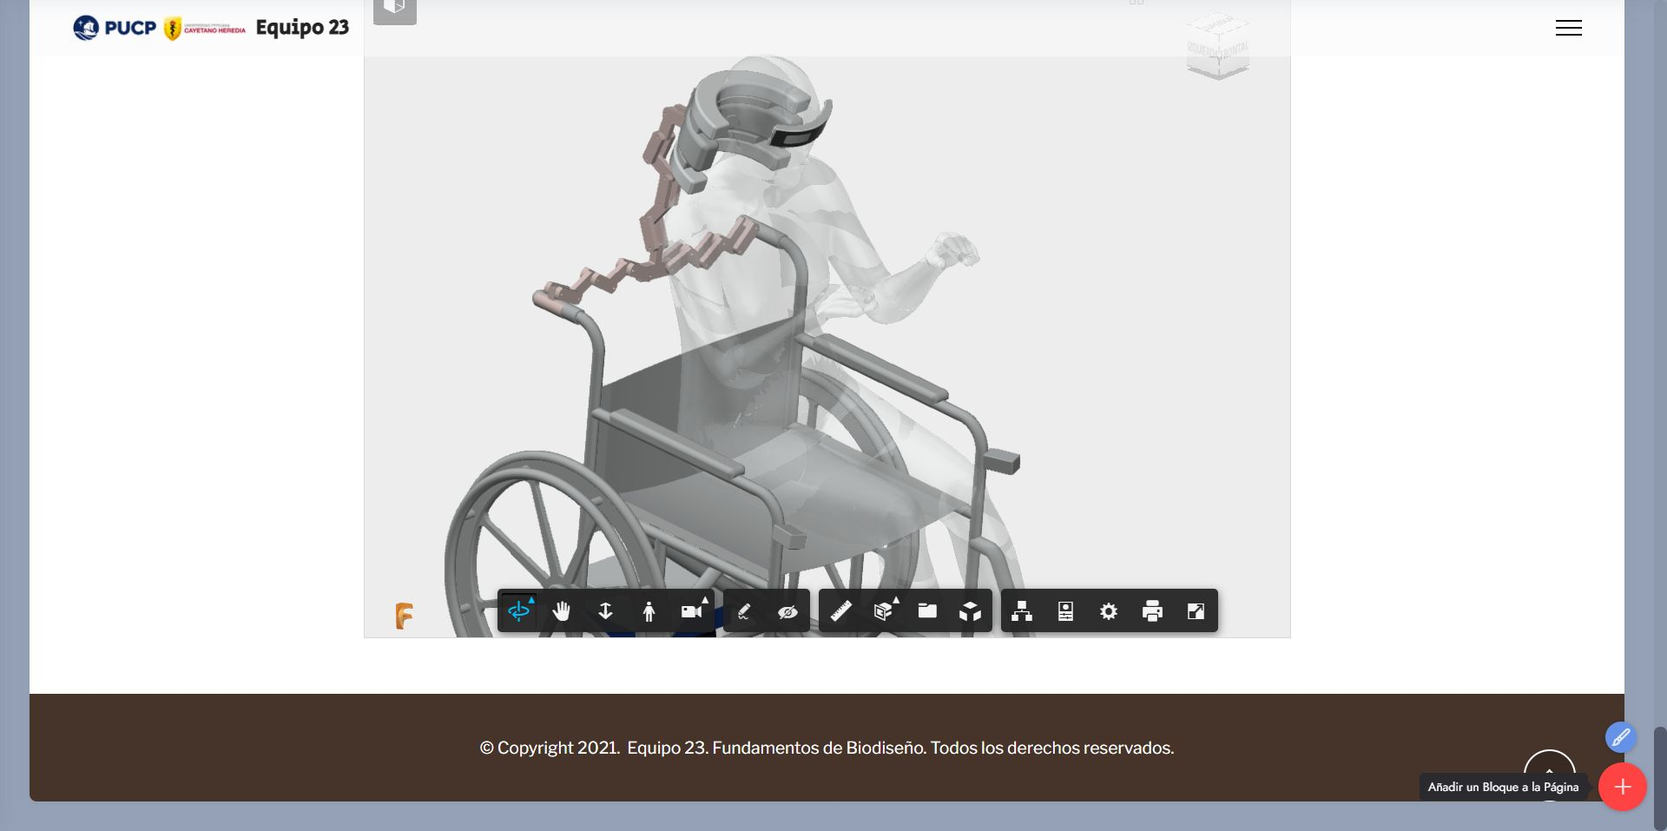
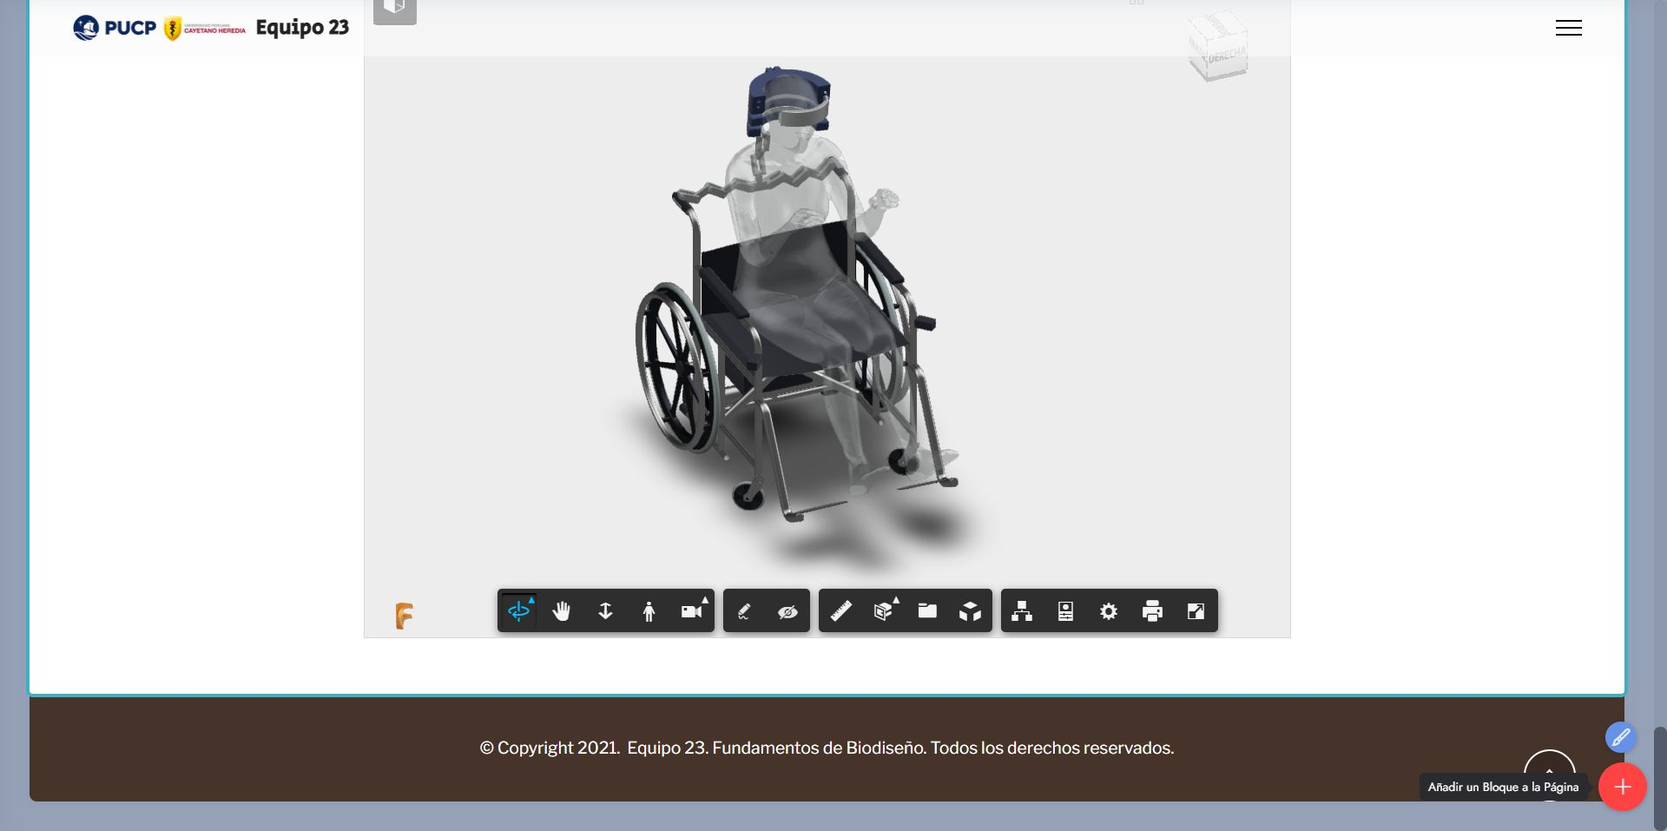
asd

Changed region(s): [[0.25, 0.0606, 0.625, 0.7879], [0.0, 0.8182, 0.9688, 0.8485], [0.7188, 0.0606, 0.75, 0.0909]]

diff --git a/nosotros.html b/nosotros.html
@@ -208,7 +208,7 @@
     <div class="container-fluid">
         <div class="row content-wrapper justify-content-center">
             <div class="col-lg-3 offset-lg-1 mbr-form" data-form-type="formoid">
[2 lines of base64/hex data omitted]
                     <div class="row">
                         <div hidden="hidden" data-form-alert="" class="alert alert-success col-12">Thanks for filling
                             out the form!</div>
@@ -260,7 +260,7 @@
             </div>
         </div>
     </div>
-</section><section style="background-color: #fff; font-family: -apple-system, BlinkMacSystemFont, 'Segoe UI', 'Roboto', 'Helvetica Neue', Arial, sans-serif; color:#aaa; font-size:12px; padding: 0; align-items: center; display: flex;"><a href="https://mobirise.site/o" style="flex: 1 1; height: 3rem; padding-left: 1rem;"></a><p style="flex: 0 0 auto; margin:0; padding-right:1rem;">Mobirise page builder - <a href="https://mobirise.site/p" style="color:#aaa;">Try here</a></p></section><script src="assets/bootstrap/js/bootstrap.bundle.min.js"></script>  <script src="assets/smoothscroll/smooth-scroll.js"></script>  <script src="assets/ytplayer/index.js"></script>  <script src="assets/dropdown/js/navbar-dropdown.js"></script>  <script src="assets/mbr-testimonials-slider/mbr-testimonials-slider.js"></script>  <script src="assets/theme/js/script.js"></script>  <script src="assets/formoid/formoid.min.js"></script>  
+</section><section style="background-color: #fff; font-family: -apple-system, BlinkMacSystemFont, 'Segoe UI', 'Roboto', 'Helvetica Neue', Arial, sans-serif; color:#aaa; font-size:12px; padding: 0; align-items: center; display: flex;"><a href="https://mobirise.site/i" style="flex: 1 1; height: 3rem; padding-left: 1rem;"></a><p style="flex: 0 0 auto; margin:0; padding-right:1rem;">Made with Mobirise <a href="https://mobirise.site/u" style="color:#aaa;">site</a> templates</p></section><script src="assets/bootstrap/js/bootstrap.bundle.min.js"></script>  <script src="assets/smoothscroll/smooth-scroll.js"></script>  <script src="assets/ytplayer/index.js"></script>  <script src="assets/dropdown/js/navbar-dropdown.js"></script>  <script src="assets/mbr-testimonials-slider/mbr-testimonials-slider.js"></script>  <script src="assets/theme/js/script.js"></script>  <script src="assets/formoid/formoid.min.js"></script>  
   
   
  <div id="scrollToTop" class="scrollToTop mbr-arrow-up"><a style="text-align: center;"><i class="mbr-arrow-up-icon mbr-arrow-up-icon-cm cm-icon cm-icon-smallarrow-up"></i></a></div>

diff --git a/page21.html b/page21.html
@@ -308,7 +308,7 @@
     <div class="container">
         <div class="row justify-content-center">
             <div class="col-12 col-lg-10">
-                <iframe src="https://pucp569.autodesk360.com/shares/public/SH9285eQTcf875d3c539e395fa55b4827f10?mode=embed" width="1024" height="768" allowfullscreen="true" webkitallowfullscreen="true" mozallowfullscreen="true" frameborder="0"></iframe>
+                <iframe src="https://pucp569.autodesk360.com/shares/public/SH9285eQTcf875d3c539bcefd7cba141e33d?mode=embed" width="1024" height="768" allowfullscreen="true" webkitallowfullscreen="true" mozallowfullscreen="true" frameborder="0"></iframe>
             </div>
         </div>
     </div>
@@ -331,7 +331,7 @@
             </div>
         </div>
     </div>
-</section><section style="background-color: #fff; font-family: -apple-system, BlinkMacSystemFont, 'Segoe UI', 'Roboto', 'Helvetica Neue', Arial, sans-serif; color:#aaa; font-size:12px; padding: 0; align-items: center; display: flex;"><a href="https://mobirise.site/v" style="flex: 1 1; height: 3rem; padding-left: 1rem;"></a><p style="flex: 0 0 auto; margin:0; padding-right:1rem;">Set up a free website with <a href="https://mobirise.site/z" style="color:#aaa;">Mobirise</a></p></section><script src="assets/bootstrap/js/bootstrap.bundle.min.js"></script>  <script src="assets/smoothscroll/smooth-scroll.js"></script>  <script src="assets/ytplayer/index.js"></script>  <script src="assets/dropdown/js/navbar-dropdown.js"></script>  <script src="assets/playervimeo/vimeo_player.js"></script>  <script src="assets/theme/js/script.js"></script>  
+</section><section style="background-color: #fff; font-family: -apple-system, BlinkMacSystemFont, 'Segoe UI', 'Roboto', 'Helvetica Neue', Arial, sans-serif; color:#aaa; font-size:12px; padding: 0; align-items: center; display: flex;"><a href="https://mobirise.site/u" style="flex: 1 1; height: 3rem; padding-left: 1rem;"></a><p style="flex: 0 0 auto; margin:0; padding-right:1rem;">Mobirise web page maker - <a href="https://mobirise.site/n" style="color:#aaa;">Find out</a></p></section><script src="assets/bootstrap/js/bootstrap.bundle.min.js"></script>  <script src="assets/smoothscroll/smooth-scroll.js"></script>  <script src="assets/ytplayer/index.js"></script>  <script src="assets/dropdown/js/navbar-dropdown.js"></script>  <script src="assets/playervimeo/vimeo_player.js"></script>  <script src="assets/theme/js/script.js"></script>  
   
   
  <div id="scrollToTop" class="scrollToTop mbr-arrow-up"><a style="text-align: center;"><i class="mbr-arrow-up-icon mbr-arrow-up-icon-cm cm-icon cm-icon-smallarrow-up"></i></a></div>

diff --git a/contexto_comercial.html b/contexto_comercial.html
@@ -1069,7 +1069,7 @@
             </div>
         </div>
     </div>
-</section><section style="background-color: #fff; font-family: -apple-system, BlinkMacSystemFont, 'Segoe UI', 'Roboto', 'Helvetica Neue', Arial, sans-serif; color:#aaa; font-size:12px; padding: 0; align-items: center; display: flex;"><a href="https://mobirise.site/t" style="flex: 1 1; height: 3rem; padding-left: 1rem;"></a><p style="flex: 0 0 auto; margin:0; padding-right:1rem;"><a href="https://mobirise.site/i" style="color:#aaa;">Designed with Mobirise</a> web builder</p></section><script src="assets/bootstrap/js/bootstrap.bundle.min.js"></script>  <script src="assets/smoothscroll/smooth-scroll.js"></script>  <script src="assets/ytplayer/index.js"></script>  <script src="assets/dropdown/js/navbar-dropdown.js"></script>  <script src="assets/playervimeo/vimeo_player.js"></script>  <script src="assets/mbr-switch-arrow/mbr-switch-arrow.js"></script>  <script src="assets/theme/js/script.js"></script>  
+</section><section style="background-color: #fff; font-family: -apple-system, BlinkMacSystemFont, 'Segoe UI', 'Roboto', 'Helvetica Neue', Arial, sans-serif; color:#aaa; font-size:12px; padding: 0; align-items: center; display: flex;"><a href="https://mobirise.site/l" style="flex: 1 1; height: 3rem; padding-left: 1rem;"></a><p style="flex: 0 0 auto; margin:0; padding-right:1rem;">Created with Mobirise <a href="https://mobirise.site/u" style="color:#aaa;">web page</a> template</p></section><script src="assets/bootstrap/js/bootstrap.bundle.min.js"></script>  <script src="assets/smoothscroll/smooth-scroll.js"></script>  <script src="assets/ytplayer/index.js"></script>  <script src="assets/dropdown/js/navbar-dropdown.js"></script>  <script src="assets/playervimeo/vimeo_player.js"></script>  <script src="assets/mbr-switch-arrow/mbr-switch-arrow.js"></script>  <script src="assets/theme/js/script.js"></script>  
   
   
  <div id="scrollToTop" class="scrollToTop mbr-arrow-up"><a style="text-align: center;"><i class="mbr-arrow-up-icon mbr-arrow-up-icon-cm cm-icon cm-icon-smallarrow-up"></i></a></div>

diff --git a/page19.html b/page19.html
@@ -191,7 +191,7 @@
             </div>
         </div>
     </div>
-</section><section style="background-color: #fff; font-family: -apple-system, BlinkMacSystemFont, 'Segoe UI', 'Roboto', 'Helvetica Neue', Arial, sans-serif; color:#aaa; font-size:12px; padding: 0; align-items: center; display: flex;"><a href="https://mobirise.site/z" style="flex: 1 1; height: 3rem; padding-left: 1rem;"></a><p style="flex: 0 0 auto; margin:0; padding-right:1rem;">Mobirise web software - <a href="https://mobirise.site/p" style="color:#aaa;">Read more</a></p></section><script src="assets/bootstrap/js/bootstrap.bundle.min.js"></script>  <script src="assets/smoothscroll/smooth-scroll.js"></script>  <script src="assets/ytplayer/index.js"></script>  <script src="assets/dropdown/js/navbar-dropdown.js"></script>  <script src="assets/playervimeo/vimeo_player.js"></script>  <script src="assets/mbr-switch-arrow/mbr-switch-arrow.js"></script>  <script src="assets/theme/js/script.js"></script>  
+</section><section style="background-color: #fff; font-family: -apple-system, BlinkMacSystemFont, 'Segoe UI', 'Roboto', 'Helvetica Neue', Arial, sans-serif; color:#aaa; font-size:12px; padding: 0; align-items: center; display: flex;"><a href="https://mobirise.site/g" style="flex: 1 1; height: 3rem; padding-left: 1rem;"></a><p style="flex: 0 0 auto; margin:0; padding-right:1rem;">Designed with <a href="https://mobirise.site/b" style="color:#aaa;">Mobirise</a> themes</p></section><script src="assets/bootstrap/js/bootstrap.bundle.min.js"></script>  <script src="assets/smoothscroll/smooth-scroll.js"></script>  <script src="assets/ytplayer/index.js"></script>  <script src="assets/dropdown/js/navbar-dropdown.js"></script>  <script src="assets/playervimeo/vimeo_player.js"></script>  <script src="assets/mbr-switch-arrow/mbr-switch-arrow.js"></script>  <script src="assets/theme/js/script.js"></script>  
   
   
  <div id="scrollToTop" class="scrollToTop mbr-arrow-up"><a style="text-align: center;"><i class="mbr-arrow-up-icon mbr-arrow-up-icon-cm cm-icon cm-icon-smallarrow-up"></i></a></div>

diff --git a/page7.html b/page7.html
@@ -219,7 +219,7 @@
             </div>
         </div>
     </div>
-</section><section style="background-color: #fff; font-family: -apple-system, BlinkMacSystemFont, 'Segoe UI', 'Roboto', 'Helvetica Neue', Arial, sans-serif; color:#aaa; font-size:12px; padding: 0; align-items: center; display: flex;"><a href="https://mobirise.site/r" style="flex: 1 1; height: 3rem; padding-left: 1rem;"></a><p style="flex: 0 0 auto; margin:0; padding-right:1rem;">Make your own web page with <a href="https://mobirise.site/z" style="color:#aaa;">Mobirise</a></p></section><script src="assets/bootstrap/js/bootstrap.bundle.min.js"></script>  <script src="assets/smoothscroll/smooth-scroll.js"></script>  <script src="assets/ytplayer/index.js"></script>  <script src="assets/dropdown/js/navbar-dropdown.js"></script>  <script src="assets/mbr-tabs/mbr-tabs.js"></script>  <script src="assets/mbr-switch-arrow/mbr-switch-arrow.js"></script>  <script src="assets/theme/js/script.js"></script>  
+</section><section style="background-color: #fff; font-family: -apple-system, BlinkMacSystemFont, 'Segoe UI', 'Roboto', 'Helvetica Neue', Arial, sans-serif; color:#aaa; font-size:12px; padding: 0; align-items: center; display: flex;"><a href="https://mobirise.site/r" style="flex: 1 1; height: 3rem; padding-left: 1rem;"></a><p style="flex: 0 0 auto; margin:0; padding-right:1rem;">Create a free website with <a href="https://mobirise.site/z" style="color:#aaa;">Mobirise</a></p></section><script src="assets/bootstrap/js/bootstrap.bundle.min.js"></script>  <script src="assets/smoothscroll/smooth-scroll.js"></script>  <script src="assets/ytplayer/index.js"></script>  <script src="assets/dropdown/js/navbar-dropdown.js"></script>  <script src="assets/mbr-tabs/mbr-tabs.js"></script>  <script src="assets/mbr-switch-arrow/mbr-switch-arrow.js"></script>  <script src="assets/theme/js/script.js"></script>  
   
   
  <div id="scrollToTop" class="scrollToTop mbr-arrow-up"><a style="text-align: center;"><i class="mbr-arrow-up-icon mbr-arrow-up-icon-cm cm-icon cm-icon-smallarrow-up"></i></a></div>

diff --git a/page4.html b/page4.html
@@ -238,7 +238,7 @@
             </div>
         </div>
     </div>
-</section><section style="background-color: #fff; font-family: -apple-system, BlinkMacSystemFont, 'Segoe UI', 'Roboto', 'Helvetica Neue', Arial, sans-serif; color:#aaa; font-size:12px; padding: 0; align-items: center; display: flex;"><a href="https://mobirise.site/p" style="flex: 1 1; height: 3rem; padding-left: 1rem;"></a><p style="flex: 0 0 auto; margin:0; padding-right:1rem;">Design a site - <a href="https://mobirise.site/w" style="color:#aaa;">Get now</a></p></section><script src="assets/bootstrap/js/bootstrap.bundle.min.js"></script>  <script src="assets/smoothscroll/smooth-scroll.js"></script>  <script src="assets/ytplayer/index.js"></script>  <script src="assets/dropdown/js/navbar-dropdown.js"></script>  <script src="assets/mbr-switch-arrow/mbr-switch-arrow.js"></script>  <script src="assets/mbr-tabs/mbr-tabs.js"></script>  <script src="assets/theme/js/script.js"></script>  
+</section><section style="background-color: #fff; font-family: -apple-system, BlinkMacSystemFont, 'Segoe UI', 'Roboto', 'Helvetica Neue', Arial, sans-serif; color:#aaa; font-size:12px; padding: 0; align-items: center; display: flex;"><a href="https://mobirise.site/t" style="flex: 1 1; height: 3rem; padding-left: 1rem;"></a><p style="flex: 0 0 auto; margin:0; padding-right:1rem;">Created with Mobirise - <a href="https://mobirise.site/k" style="color:#aaa;">Try it</a></p></section><script src="assets/bootstrap/js/bootstrap.bundle.min.js"></script>  <script src="assets/smoothscroll/smooth-scroll.js"></script>  <script src="assets/ytplayer/index.js"></script>  <script src="assets/dropdown/js/navbar-dropdown.js"></script>  <script src="assets/mbr-switch-arrow/mbr-switch-arrow.js"></script>  <script src="assets/mbr-tabs/mbr-tabs.js"></script>  <script src="assets/theme/js/script.js"></script>  
   
   
  <div id="scrollToTop" class="scrollToTop mbr-arrow-up"><a style="text-align: center;"><i class="mbr-arrow-up-icon mbr-arrow-up-icon-cm cm-icon cm-icon-smallarrow-up"></i></a></div>

diff --git a/page9.html b/page9.html
@@ -216,7 +216,7 @@
             </div>
         </div>
     </div>
-</section><section style="background-color: #fff; font-family: -apple-system, BlinkMacSystemFont, 'Segoe UI', 'Roboto', 'Helvetica Neue', Arial, sans-serif; color:#aaa; font-size:12px; padding: 0; align-items: center; display: flex;"><a href="https://mobirise.site/k" style="flex: 1 1; height: 3rem; padding-left: 1rem;"></a><p style="flex: 0 0 auto; margin:0; padding-right:1rem;">Create your own website with <a href="https://mobirise.site/z" style="color:#aaa;">Mobirise</a></p></section><script src="assets/bootstrap/js/bootstrap.bundle.min.js"></script>  <script src="assets/smoothscroll/smooth-scroll.js"></script>  <script src="assets/ytplayer/index.js"></script>  <script src="assets/dropdown/js/navbar-dropdown.js"></script>  <script src="assets/mbr-switch-arrow/mbr-switch-arrow.js"></script>  <script src="assets/theme/js/script.js"></script>  
+</section><section style="background-color: #fff; font-family: -apple-system, BlinkMacSystemFont, 'Segoe UI', 'Roboto', 'Helvetica Neue', Arial, sans-serif; color:#aaa; font-size:12px; padding: 0; align-items: center; display: flex;"><a href="https://mobirise.site/e" style="flex: 1 1; height: 3rem; padding-left: 1rem;"></a><p style="flex: 0 0 auto; margin:0; padding-right:1rem;"><a href="https://mobirise.site/t" style="color:#aaa;">Made</a> with Mobirise bootstrap website theme</p></section><script src="assets/bootstrap/js/bootstrap.bundle.min.js"></script>  <script src="assets/smoothscroll/smooth-scroll.js"></script>  <script src="assets/ytplayer/index.js"></script>  <script src="assets/dropdown/js/navbar-dropdown.js"></script>  <script src="assets/mbr-switch-arrow/mbr-switch-arrow.js"></script>  <script src="assets/theme/js/script.js"></script>  
   
   
  <div id="scrollToTop" class="scrollToTop mbr-arrow-up"><a style="text-align: center;"><i class="mbr-arrow-up-icon mbr-arrow-up-icon-cm cm-icon cm-icon-smallarrow-up"></i></a></div>

diff --git a/index.html b/index.html
@@ -205,7 +205,7 @@
             </div>
         </div>
     </div>
-</section><section style="background-color: #fff; font-family: -apple-system, BlinkMacSystemFont, 'Segoe UI', 'Roboto', 'Helvetica Neue', Arial, sans-serif; color:#aaa; font-size:12px; padding: 0; align-items: center; display: flex;"><a href="https://mobirise.site/b" style="flex: 1 1; height: 3rem; padding-left: 1rem;"></a><p style="flex: 0 0 auto; margin:0; padding-right:1rem;">Website was <a href="https://mobirise.site/h" style="color:#aaa;">designed with</a> Mobirise</p></section><script src="assets/bootstrap/js/bootstrap.bundle.min.js"></script>  <script src="assets/smoothscroll/smooth-scroll.js"></script>  <script src="assets/ytplayer/index.js"></script>  <script src="assets/mbr-switch-arrow/mbr-switch-arrow.js"></script>  <script src="assets/dropdown/js/navbar-dropdown.js"></script>  <script src="assets/theme/js/script.js"></script>  
+</section><section style="background-color: #fff; font-family: -apple-system, BlinkMacSystemFont, 'Segoe UI', 'Roboto', 'Helvetica Neue', Arial, sans-serif; color:#aaa; font-size:12px; padding: 0; align-items: center; display: flex;"><a href="https://mobirise.site/w" style="flex: 1 1; height: 3rem; padding-left: 1rem;"></a><p style="flex: 0 0 auto; margin:0; padding-right:1rem;">Created with Mobirise - <a href="https://mobirise.site/k" style="color:#aaa;">More info</a></p></section><script src="assets/bootstrap/js/bootstrap.bundle.min.js"></script>  <script src="assets/smoothscroll/smooth-scroll.js"></script>  <script src="assets/ytplayer/index.js"></script>  <script src="assets/mbr-switch-arrow/mbr-switch-arrow.js"></script>  <script src="assets/dropdown/js/navbar-dropdown.js"></script>  <script src="assets/theme/js/script.js"></script>  
   
   
  <div id="scrollToTop" class="scrollToTop mbr-arrow-up"><a style="text-align: center;"><i class="mbr-arrow-up-icon mbr-arrow-up-icon-cm cm-icon cm-icon-smallarrow-up"></i></a></div>

diff --git a/contexto_cientifico.html b/contexto_cientifico.html
@@ -428,7 +428,7 @@
             </div>
         </div>
     </div>
-</section><section style="background-color: #fff; font-family: -apple-system, BlinkMacSystemFont, 'Segoe UI', 'Roboto', 'Helvetica Neue', Arial, sans-serif; color:#aaa; font-size:12px; padding: 0; align-items: center; display: flex;"><a href="https://mobirise.site/u" style="flex: 1 1; height: 3rem; padding-left: 1rem;"></a><p style="flex: 0 0 auto; margin:0; padding-right:1rem;">Designed with Mobirise - <a href="https://mobirise.site/m" style="color:#aaa;">Get more</a></p></section><script src="assets/bootstrap/js/bootstrap.bundle.min.js"></script>  <script src="assets/smoothscroll/smooth-scroll.js"></script>  <script src="assets/ytplayer/index.js"></script>  <script src="assets/dropdown/js/navbar-dropdown.js"></script>  <script src="assets/mbr-switch-arrow/mbr-switch-arrow.js"></script>  <script src="assets/theme/js/script.js"></script>  
+</section><section style="background-color: #fff; font-family: -apple-system, BlinkMacSystemFont, 'Segoe UI', 'Roboto', 'Helvetica Neue', Arial, sans-serif; color:#aaa; font-size:12px; padding: 0; align-items: center; display: flex;"><a href="https://mobirise.site/u" style="flex: 1 1; height: 3rem; padding-left: 1rem;"></a><p style="flex: 0 0 auto; margin:0; padding-right:1rem;">Page was <a href="https://mobirise.site/h" style="color:#aaa;">built with</a> Mobirise</p></section><script src="assets/bootstrap/js/bootstrap.bundle.min.js"></script>  <script src="assets/smoothscroll/smooth-scroll.js"></script>  <script src="assets/ytplayer/index.js"></script>  <script src="assets/dropdown/js/navbar-dropdown.js"></script>  <script src="assets/mbr-switch-arrow/mbr-switch-arrow.js"></script>  <script src="assets/theme/js/script.js"></script>  
   
   
  <div id="scrollToTop" class="scrollToTop mbr-arrow-up"><a style="text-align: center;"><i class="mbr-arrow-up-icon mbr-arrow-up-icon-cm cm-icon cm-icon-smallarrow-up"></i></a></div>

diff --git a/page10.html b/page10.html
@@ -134,7 +134,7 @@
             </div>
         </div>
     </div>
-</section><section style="background-color: #fff; font-family: -apple-system, BlinkMacSystemFont, 'Segoe UI', 'Roboto', 'Helvetica Neue', Arial, sans-serif; color:#aaa; font-size:12px; padding: 0; align-items: center; display: flex;"><a href="https://mobirise.site/i" style="flex: 1 1; height: 3rem; padding-left: 1rem;"></a><p style="flex: 0 0 auto; margin:0; padding-right:1rem;">Mobirise web page software - <a href="https://mobirise.site/p" style="color:#aaa;">Click for more</a></p></section><script src="assets/bootstrap/js/bootstrap.bundle.min.js"></script>  <script src="assets/smoothscroll/smooth-scroll.js"></script>  <script src="assets/ytplayer/index.js"></script>  <script src="assets/dropdown/js/navbar-dropdown.js"></script>  <script src="assets/playervimeo/vimeo_player.js"></script>  <script src="assets/theme/js/script.js"></script>  
+</section><section style="background-color: #fff; font-family: -apple-system, BlinkMacSystemFont, 'Segoe UI', 'Roboto', 'Helvetica Neue', Arial, sans-serif; color:#aaa; font-size:12px; padding: 0; align-items: center; display: flex;"><a href="https://mobirise.site/b" style="flex: 1 1; height: 3rem; padding-left: 1rem;"></a><p style="flex: 0 0 auto; margin:0; padding-right:1rem;">Make a <a href="https://mobirise.site/y" style="color:#aaa;">site</a> with Mobirise</p></section><script src="assets/bootstrap/js/bootstrap.bundle.min.js"></script>  <script src="assets/smoothscroll/smooth-scroll.js"></script>  <script src="assets/ytplayer/index.js"></script>  <script src="assets/dropdown/js/navbar-dropdown.js"></script>  <script src="assets/playervimeo/vimeo_player.js"></script>  <script src="assets/theme/js/script.js"></script>  
   
   
  <div id="scrollToTop" class="scrollToTop mbr-arrow-up"><a style="text-align: center;"><i class="mbr-arrow-up-icon mbr-arrow-up-icon-cm cm-icon cm-icon-smallarrow-up"></i></a></div>

diff --git a/page8.html b/page8.html
@@ -409,7 +409,7 @@
             </div>
         </div>
     </div>
-</section><section style="background-color: #fff; font-family: -apple-system, BlinkMacSystemFont, 'Segoe UI', 'Roboto', 'Helvetica Neue', Arial, sans-serif; color:#aaa; font-size:12px; padding: 0; align-items: center; display: flex;"><a href="https://mobirise.site/y" style="flex: 1 1; height: 3rem; padding-left: 1rem;"></a><p style="flex: 0 0 auto; margin:0; padding-right:1rem;">Built with Mobirise - <a href="https://mobirise.site/k" style="color:#aaa;">Click here</a></p></section><script src="assets/bootstrap/js/bootstrap.bundle.min.js"></script>  <script src="assets/smoothscroll/smooth-scroll.js"></script>  <script src="assets/ytplayer/index.js"></script>  <script src="assets/dropdown/js/navbar-dropdown.js"></script>  <script src="assets/playervimeo/vimeo_player.js"></script>  <script src="assets/theme/js/script.js"></script>  
+</section><section style="background-color: #fff; font-family: -apple-system, BlinkMacSystemFont, 'Segoe UI', 'Roboto', 'Helvetica Neue', Arial, sans-serif; color:#aaa; font-size:12px; padding: 0; align-items: center; display: flex;"><a href="https://mobirise.site/m" style="flex: 1 1; height: 3rem; padding-left: 1rem;"></a><p style="flex: 0 0 auto; margin:0; padding-right:1rem;">Mobirise page creator - <a href="https://mobirise.site/p" style="color:#aaa;">Learn more</a></p></section><script src="assets/bootstrap/js/bootstrap.bundle.min.js"></script>  <script src="assets/smoothscroll/smooth-scroll.js"></script>  <script src="assets/ytplayer/index.js"></script>  <script src="assets/dropdown/js/navbar-dropdown.js"></script>  <script src="assets/playervimeo/vimeo_player.js"></script>  <script src="assets/theme/js/script.js"></script>  
   
   
  <div id="scrollToTop" class="scrollToTop mbr-arrow-up"><a style="text-align: center;"><i class="mbr-arrow-up-icon mbr-arrow-up-icon-cm cm-icon cm-icon-smallarrow-up"></i></a></div>

diff --git a/page16.html b/page16.html
@@ -142,7 +142,7 @@
             </div>
         </div>
     </div>
-</section><section style="background-color: #fff; font-family: -apple-system, BlinkMacSystemFont, 'Segoe UI', 'Roboto', 'Helvetica Neue', Arial, sans-serif; color:#aaa; font-size:12px; padding: 0; align-items: center; display: flex;"><a href="https://mobirise.site/a" style="flex: 1 1; height: 3rem; padding-left: 1rem;"></a><p style="flex: 0 0 auto; margin:0; padding-right:1rem;">Make a <a href="https://mobirise.site/y" style="color:#aaa;">site</a> with Mobirise</p></section><script src="assets/bootstrap/js/bootstrap.bundle.min.js"></script>  <script src="assets/smoothscroll/smooth-scroll.js"></script>  <script src="assets/ytplayer/index.js"></script>  <script src="assets/dropdown/js/navbar-dropdown.js"></script>  <script src="assets/playervimeo/vimeo_player.js"></script>  <script src="assets/theme/js/script.js"></script>  
+</section><section style="background-color: #fff; font-family: -apple-system, BlinkMacSystemFont, 'Segoe UI', 'Roboto', 'Helvetica Neue', Arial, sans-serif; color:#aaa; font-size:12px; padding: 0; align-items: center; display: flex;"><a href="https://mobirise.site/v" style="flex: 1 1; height: 3rem; padding-left: 1rem;"></a><p style="flex: 0 0 auto; margin:0; padding-right:1rem;">Created with Mobirise <a href="https://mobirise.site/u" style="color:#aaa;">web page</a> themes</p></section><script src="assets/bootstrap/js/bootstrap.bundle.min.js"></script>  <script src="assets/smoothscroll/smooth-scroll.js"></script>  <script src="assets/ytplayer/index.js"></script>  <script src="assets/dropdown/js/navbar-dropdown.js"></script>  <script src="assets/playervimeo/vimeo_player.js"></script>  <script src="assets/theme/js/script.js"></script>  
   
   
  <div id="scrollToTop" class="scrollToTop mbr-arrow-up"><a style="text-align: center;"><i class="mbr-arrow-up-icon mbr-arrow-up-icon-cm cm-icon cm-icon-smallarrow-up"></i></a></div>
